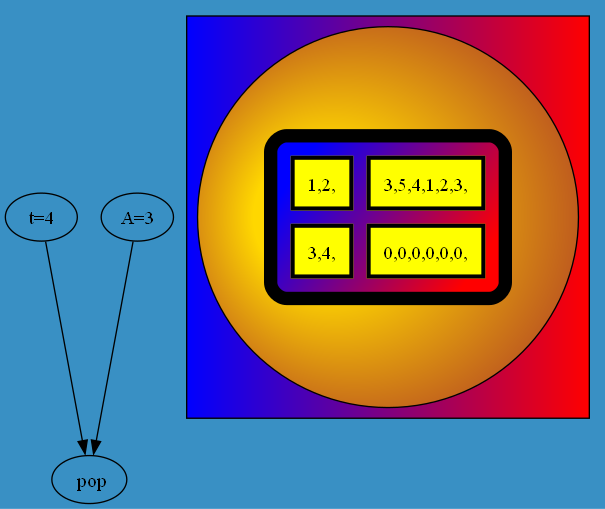
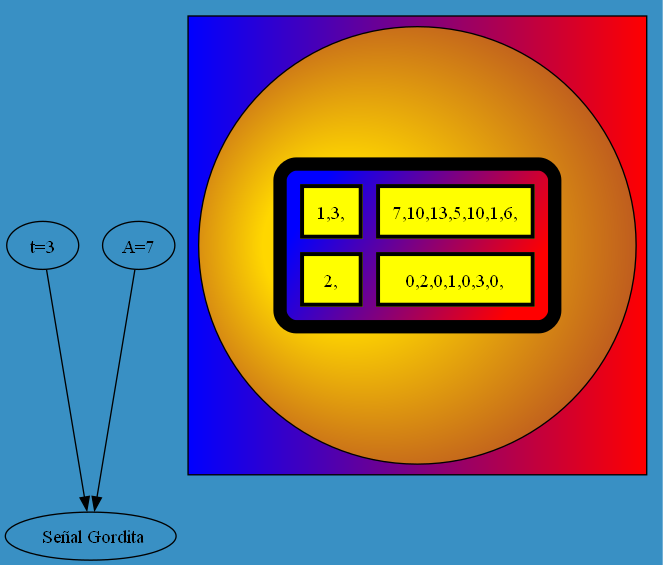
Se soluciono error al graficar

diff --git a/Listas/Lista_dato.py b/Listas/Lista_dato.py
@@ -43,7 +43,7 @@ class Lista_dato:
     print("===========================================================================================")
     actual = self.primero
     while actual != None:
-      print(" Nivel: ",actual.dato.t,"No. Celda: ",actual.dato.A," Prisionero:",actual.dato.num)
+      print(" t: ",actual.dato.t,"A: ",actual.dato.A," Num:",actual.dato.num)
       actual = actual.siguiente
     print("===========================================================================================")
 
@@ -108,7 +108,9 @@ class Lista_dato:
   def devolver_cadena_del_grupo(self,grupo):
     string_resultado=""
     string_temporal=""
+    nuevo_cad=""
     buffer=""
+    print(grupo)
 
     for digito in grupo:
       if digito.isdigit():
@@ -117,10 +119,69 @@ class Lista_dato:
         string_temporal=""
         actual = self.primero
         while actual != None:
-          if actual.dato.t==int(buffer):
-            string_temporal+=str(actual.dato.num) +","
+          if actual.dato.t==int(buffer):            
+            kes=False
+            vaK= False
+            contador=0
+            cont=0
+            contac=0
+            nuevo_cad=""
+            pir=0
+
+            for caracter in string_resultado:
+              cont+=1
+
+  
+              if caracter.isdigit():
+
+
+                contador += 1   
+                if int(contador) == int(contac):
+                  contador=pir+1
+                  contac=0
+                  continue           
+                 
+
+                print("contador="+caracter)
+
+                pas = caracter
+                print(caracter+"==ddddd==")
+       
+                caracter=self.nar(string_resultado,cont,pas)
+                contac=contador
+                if len(caracter)>1:
+                  contac=contador+ len(caracter)-1
+                  pir=contador
+                  print(caracter+"===="+str(len(caracter))+"===="+str(contador)+"====="+str(contac))
+
+                print(str(contador)+":d:" +str(actual.dato.A))
+
+
+                if contador == int(actual.dato.A) :
+                  kes = True
+                  print(str(caracter)+":d:" +str(contador)+":"+str(actual.dato.A)+":"+str(actual.dato.num))
+                  nuevo_cad += str(int(caracter) + int(actual.dato.num)) 
+                else:
+                     nuevo_cad += caracter
+              else:
+                  nuevo_cad += caracter
+            if kes == False:
+                
+                
+                string_temporal +=str(actual.dato.num) +","   
+                print("finB")
+            else: 
+                vaK=True     
+                print("finA")
+                string_resultado=nuevo_cad  
+          print("Te")
           actual = actual.siguiente
-        string_resultado+=string_temporal+"\n"
+        if vaK == False:
+
+          string_resultado+=string_temporal
+        else:   
+          string_resultado=nuevo_cad
+
         buffer=""
     return string_resultado
   
@@ -129,4 +190,29 @@ class Lista_dato:
             temp = self.primero
             self.primero = self.primero.siguiente
             temp.siguiente = None 
+  def nar(self,string_resultado,contador,caracter):
+                  
+                  contador2=0
+                  contador+=1
+                  for caracter2 in string_resultado:
+                     contador2+=1
+                     if contador2 == contador:
+                        if caracter2.isdigit():
+                           caracter= str(caracter)+str(caracter2) 
+                           return self.nar(string_resultado,contador2,caracter)
+                        if caracter2==',':
+                           return str(caracter)
+                        
+                        
+  def narC(self,string_resultado,contador,caracter):
+                  cont4=0
+                  contador2=0
+
+                  for caracter2 in string_resultado:
+                     contador2+=1
+                     if caracter2.isdigit():
+                          cont4+=1
+                          if caracter2==caracter:
+                            return cont4
+                        
     

diff --git a/App.py b/App.py
@@ -70,7 +70,6 @@ def imprimir_Lista():
 
             lista_grupos_temporal=lista_grupos()
             for dato_senal in senales_temporal.findall("dato"):
-                print("Calculando las matrices...")
                 t_dato = dato_senal.get("t")
                 A_dato = dato_senal.get("A")
                 num_dato = dato_senal.text
@@ -78,16 +77,16 @@ def imprimir_Lista():
                     num_dato = 0
 
                 nuevo = Dato(int(t_dato), int(A_dato),int(num_dato))
-                Lista_dato_temporal.insertar_dato(nuevo)
+                Lista_dato_temporal.insertar_dato_ordenado  (nuevo)
                 if num_dato != "NULL" and int(num_dato) >0:
                     nuevo = Dato(int(t_dato), int(A_dato),1)
-                    Lista_dato_patrones_temporal.insertar_dato(nuevo)
+                    Lista_dato_patrones_temporal.insertar_dato_ordenado(nuevo)
                 else:
                     nuevo = Dato(int(t_dato), int(A_dato),0)
-                    Lista_dato_patrones_temporal.insertar_dato(nuevo)                
+                    Lista_dato_patrones_temporal.insertar_dato_ordenado(nuevo)                
             Lista_senales_temporal.Incertar_dato(Senal(nombre_Senal,t_Senal,A_Senal,Lista_dato_temporal,Lista_dato_patrones_temporal,lista_patrones_temporal,lista_grupos_temporal))
             print("Matrices ok!")
-        
+        Lista_senales_temporal.recorrer_e_imprimir_lista()
     else:
         print("Sin archivos")
 
@@ -134,7 +133,7 @@ def Inicialializar():
     Lista_senales_temporal.eliminar()
     Lista_dato().eliminar()
     lista_grupos().eliminar()
-    lista_patrones().eliminar()
+    lista_patrones().eliminar2()
     Cargador_Dao_list.eliminar()
     print("eliminado todo... OK!")
 

diff --git a/Listas/Lista_senales.py b/Listas/Lista_senales.py
@@ -46,7 +46,7 @@ class Lista_senales:
         actual = self.primero
         while actual != None:
             if actual.senal.nombre==nombre_senal:
-                actual=self.primero
+                
        
                 actual.senal.lista_datos.generar_grafica(actual.senal.nombre,
                                                     str(actual.senal.t),
@@ -60,7 +60,6 @@ class Lista_senales:
         actual=self.primero
         while actual != None:
             if actual.senal.nombre==nombre_senal:
-                actual=self.primero
        
                 actual.senal.lista_patrones_datos.generar_grafica(actual.senal.nombre,
                                                     str(actual.senal.t),

diff --git a/Listas/lista_patrones.py b/Listas/lista_patrones.py
@@ -70,7 +70,7 @@ class lista_patrones:
     return resultado 
 
 
-  def eliminar(self):
+  def eliminar2(self):
         while self.primero:
             temp = self.primero
             self.primero = self.primero.siguiente
